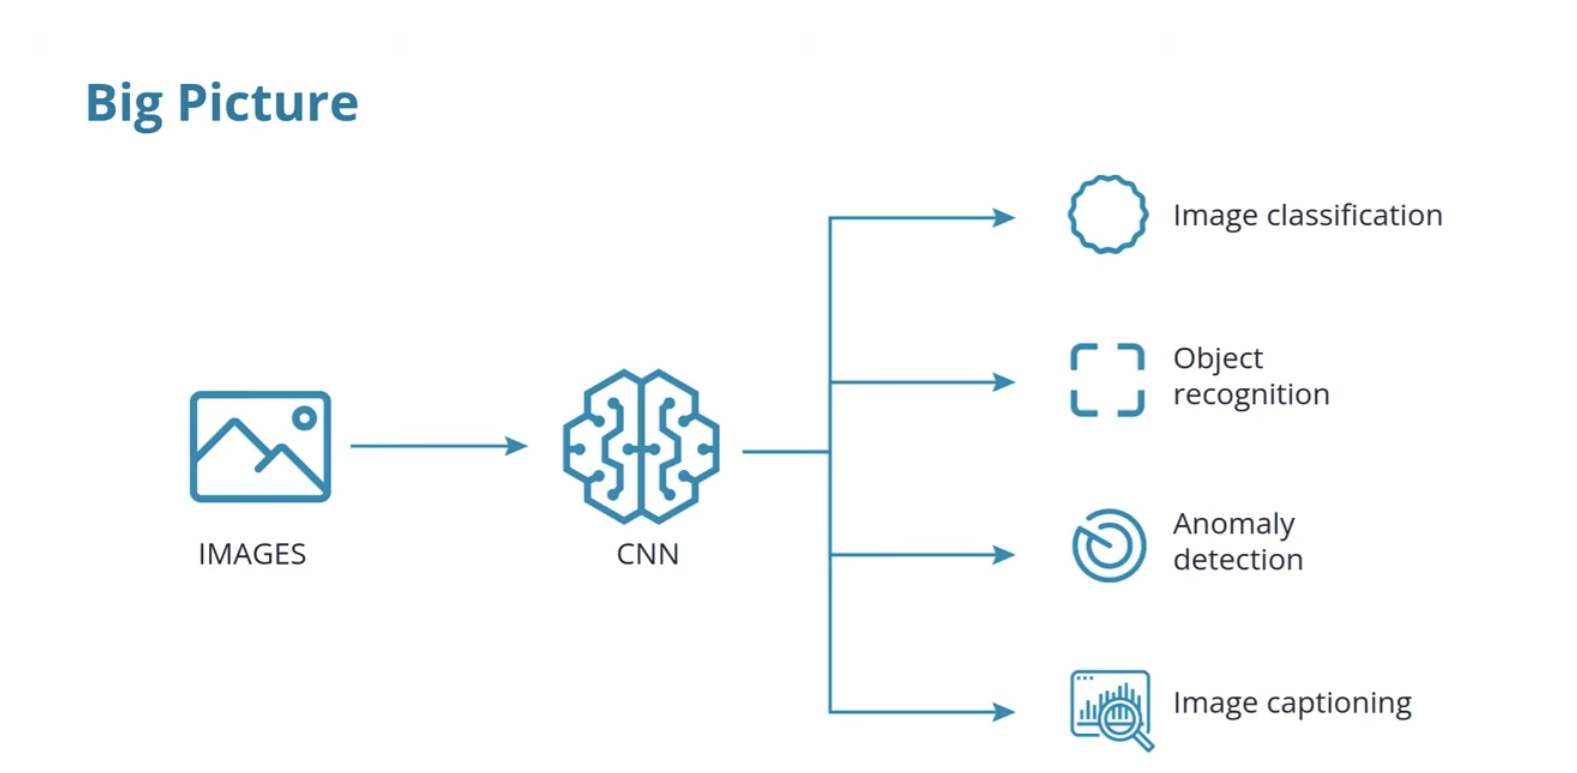
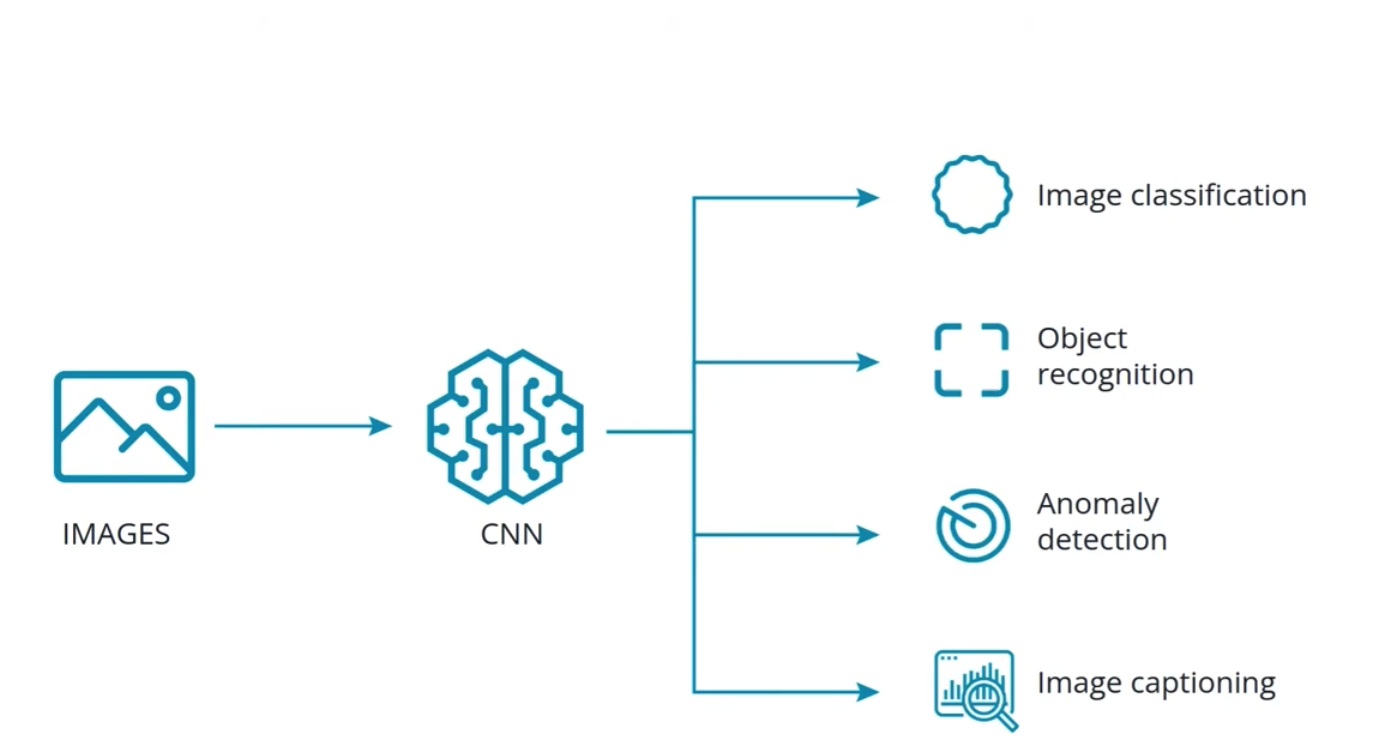
The commit is successful

Changed region(s): [[0.0308, 0.184, 0.9542, 0.9813], [0.0308, 0.092, 0.2462, 0.184], [0.0308, 0.6747, 0.2155, 0.736]]

diff --git a/C_1.md b/C_1.md
@@ -260,7 +260,7 @@ typically detect simple features like edges and color gradients, while deeper la
 complex patterns—eventually recognizing entire objects.
 
 <div align="center">
-<img src="images/Deep_Learning_ND_P2_C_1_02.png" alt="CNN Overview" width="600" height=auto>
+<img src="images/Deep_Learning_ND_P2_C_1_02.png" alt="CNN Overview" width="450" height=auto>
 <p align="center">figure: Overview of a Convolutional Neural Network applications</p>
 </div>
 
